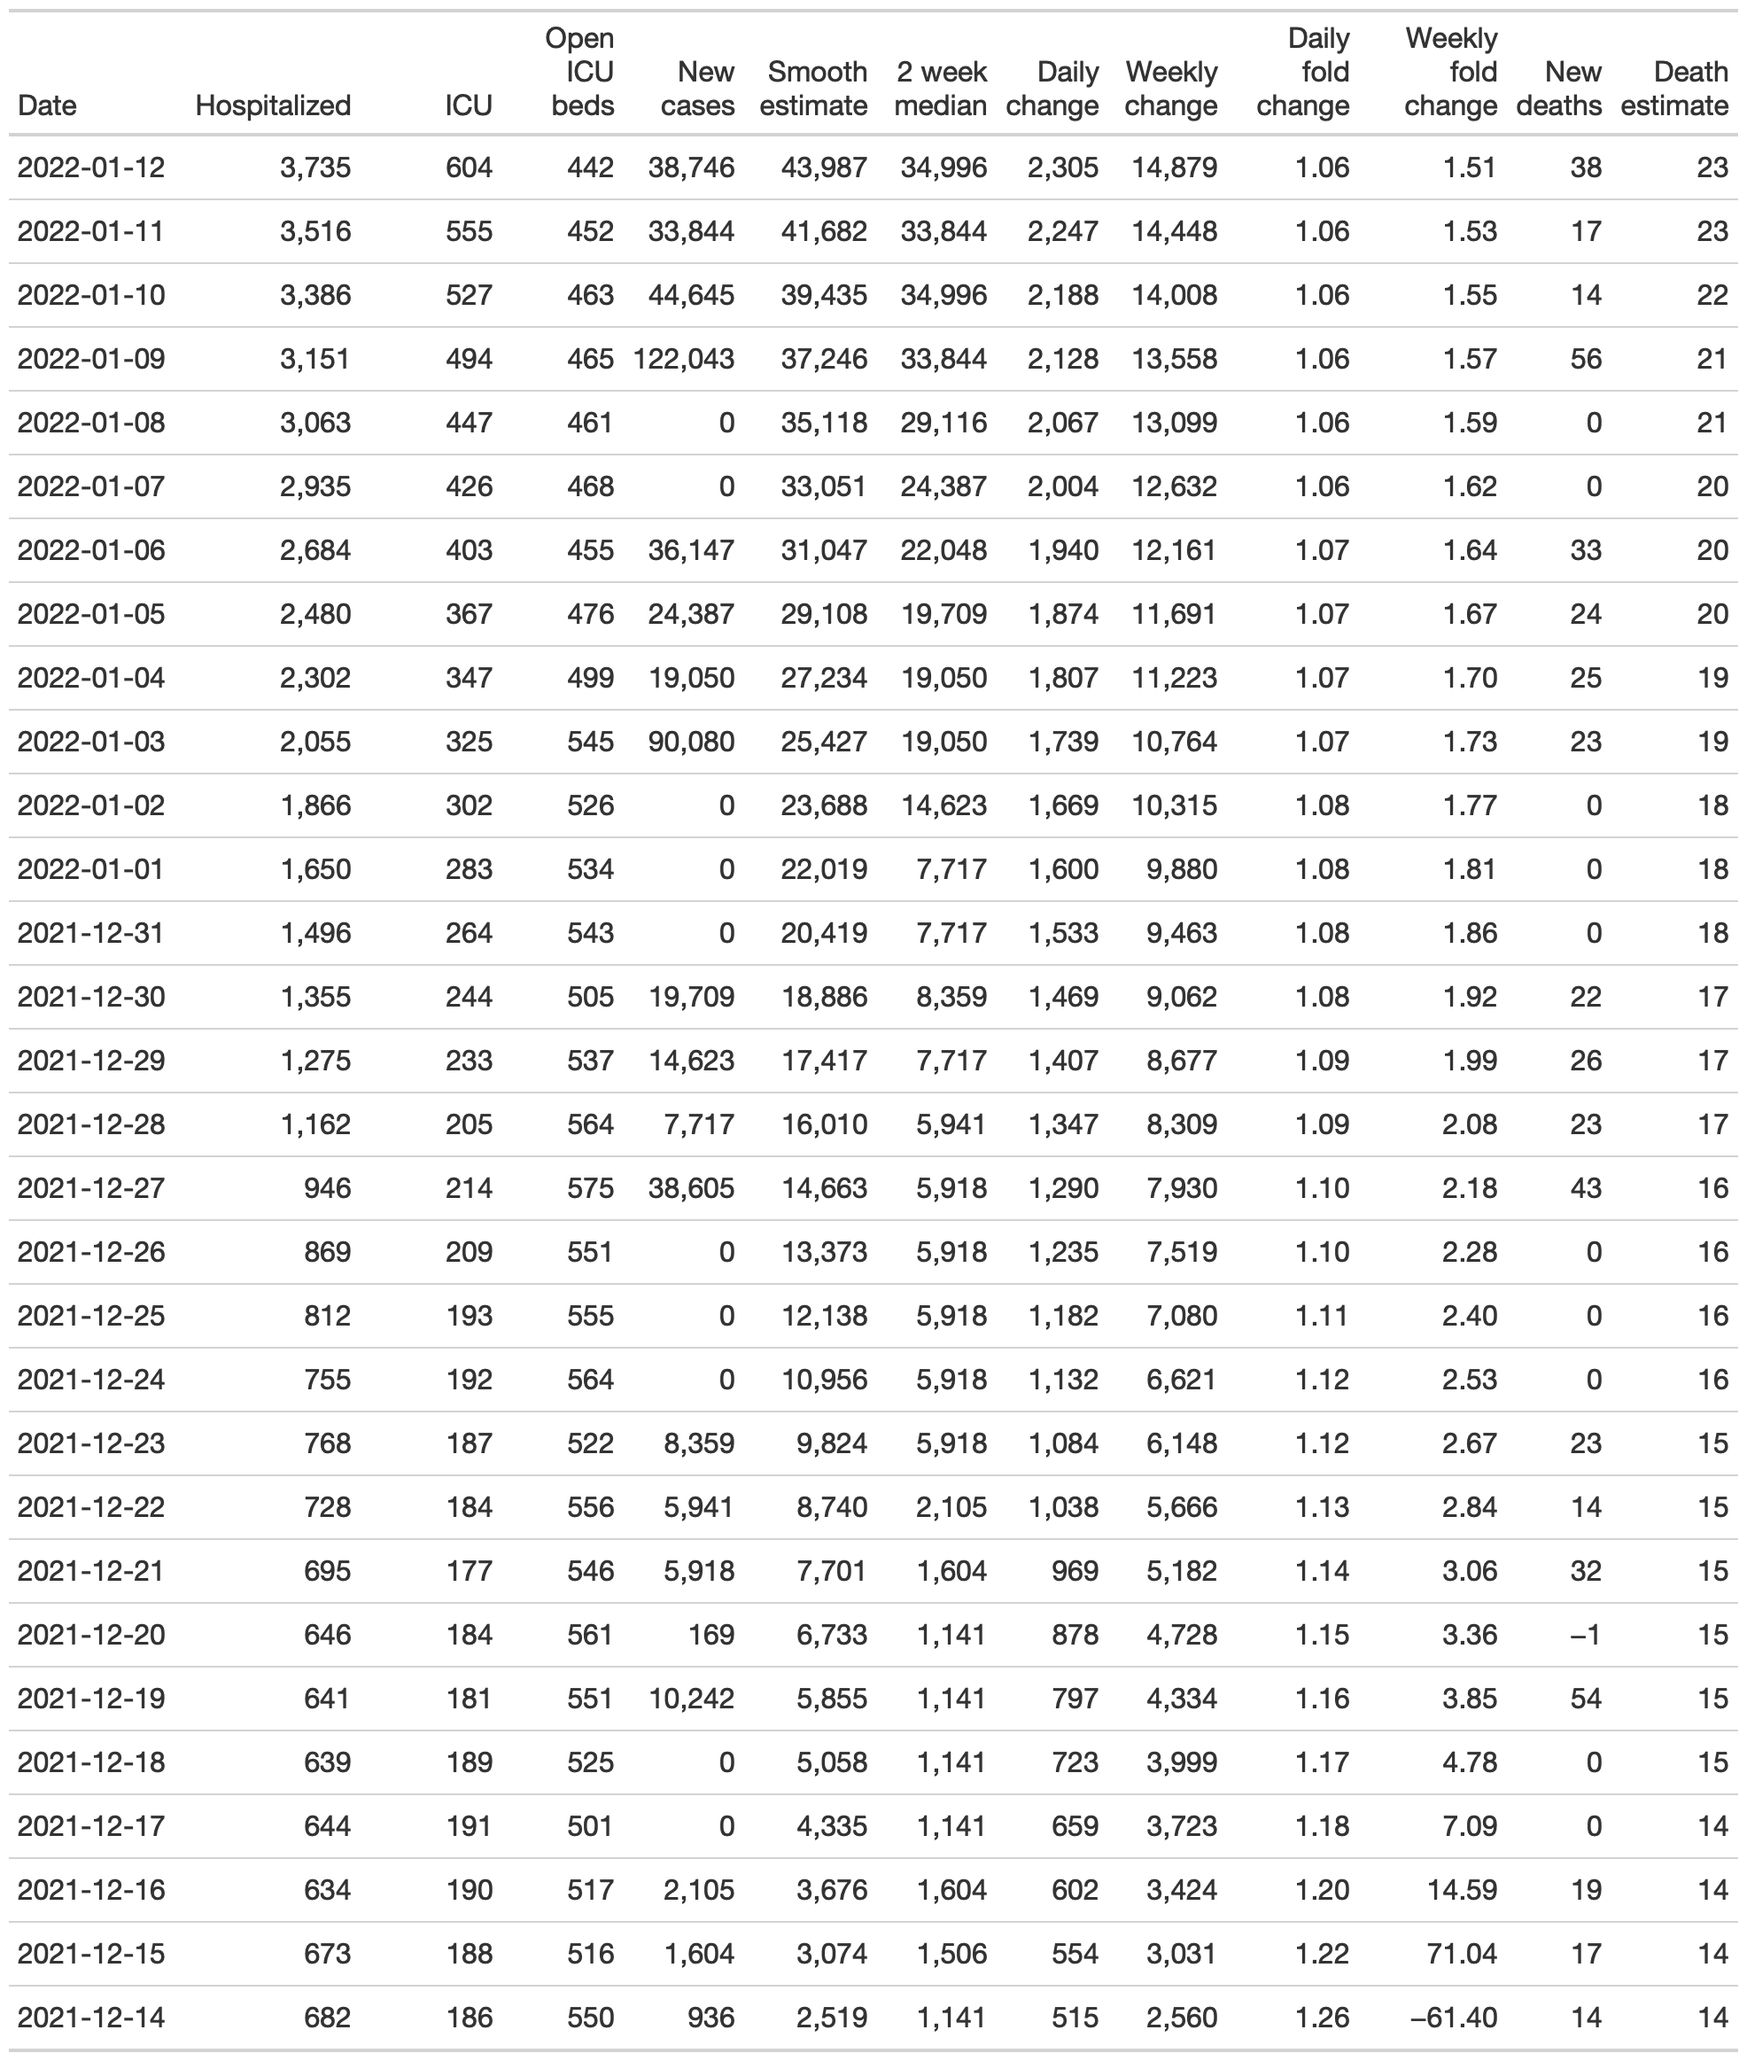
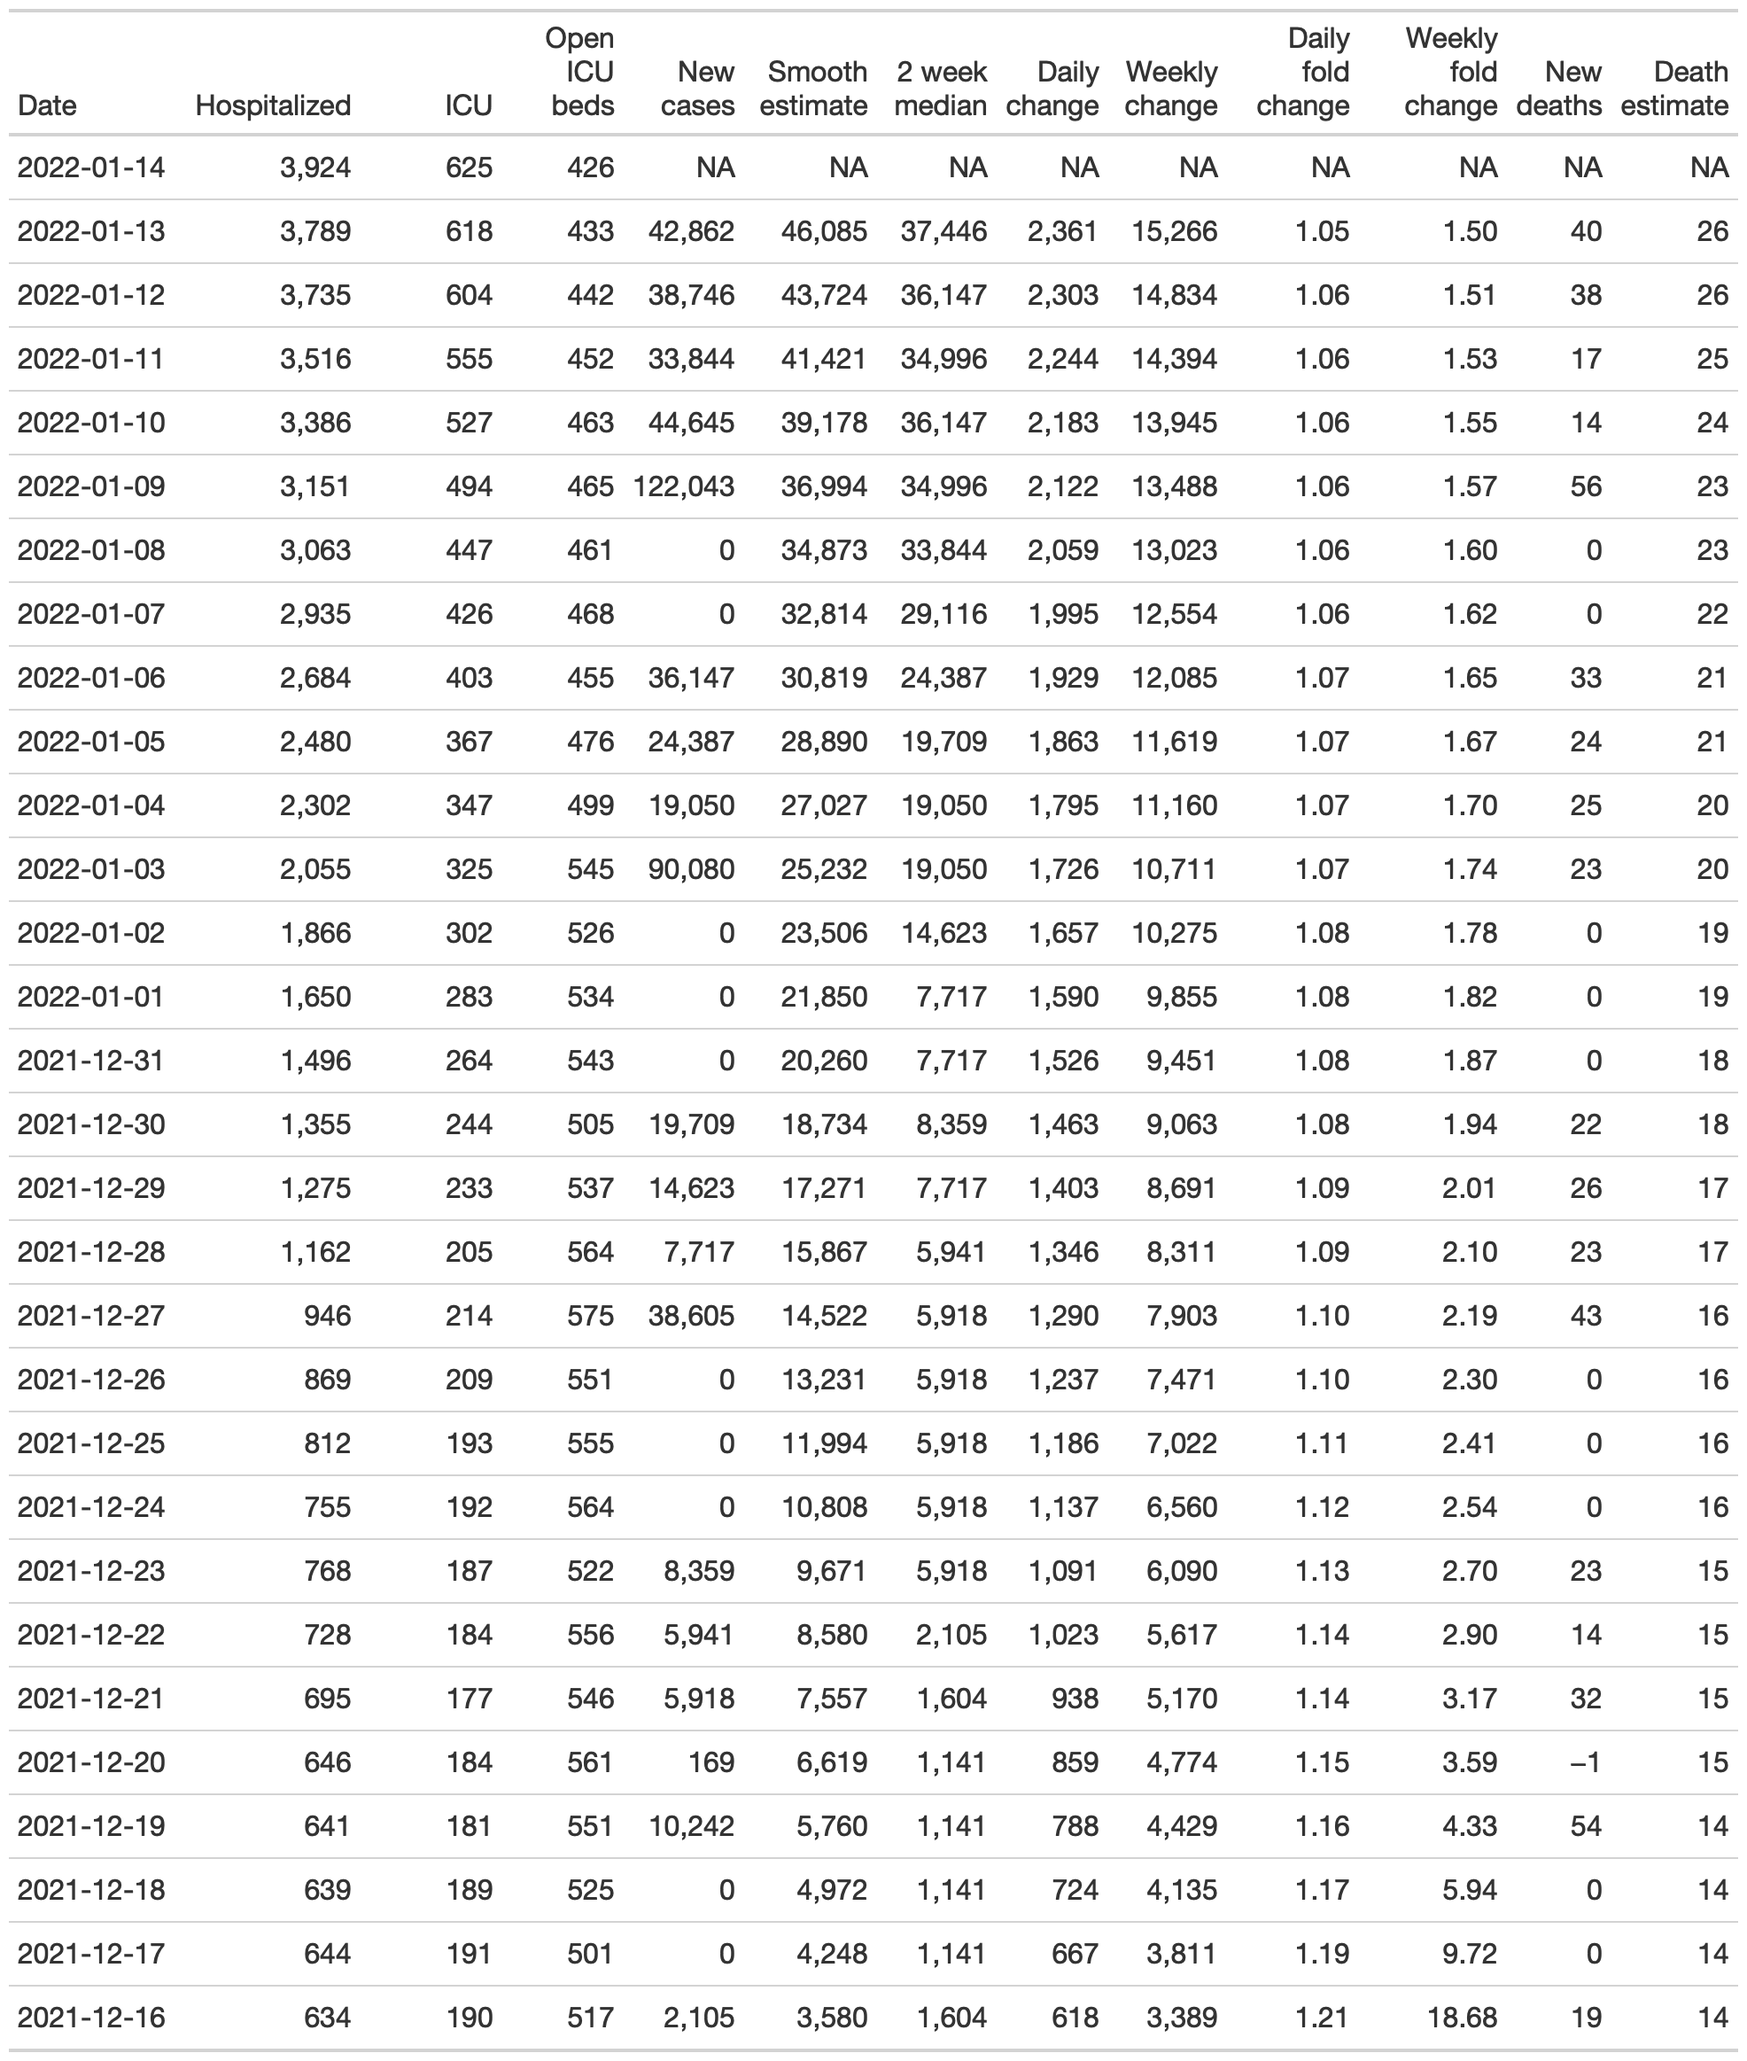
Update 2022-01-15

diff --git a/content/_index.html b/content/_index.html
@@ -22,6 +22,11 @@ peak in winter 2021. Hospitalizations and ICU admissions have been shifted back
 9 days, and Deaths have been shifted back 22 days as this was the approximate
 lag for the winter 2021 wave.</p>
 <p><img src="/_index_files/figure-html/covid-los-angeles-figure-02-1.png" width="350px" style="display: block; margin: auto;" /></p>
+<p>With so many new cases in recent days, I was curious what fraction of LA
+county’s population has gotten covid during the omicron wave. Without
+considering duplicates, and assuming that December 2021 was the start of this
+wave, there have been 587,750 confirmed cases, which is roughly
+5.7% of the population.</p>
 <p>Saw some chatter on Twitter about the circular plot of cases published by the
 NYT
 <a href="https://www.nytimes.com/2022/01/06/opinion/omicron-covid-us.html">here behind a paywall</a>.
